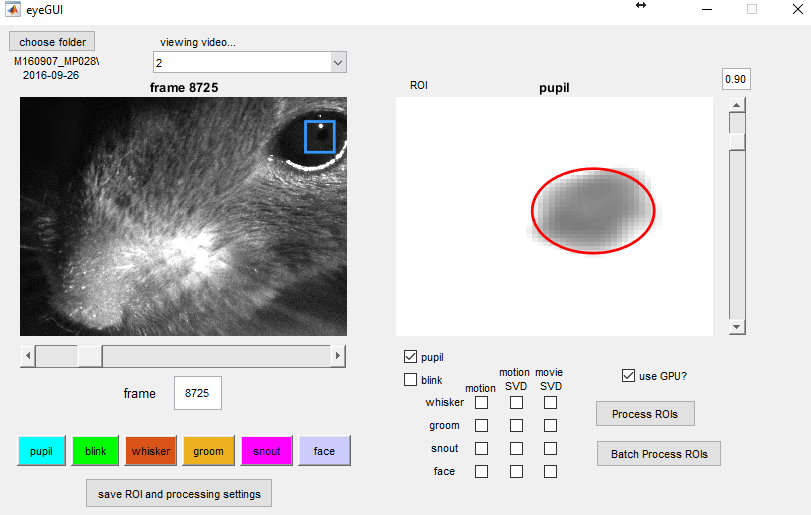
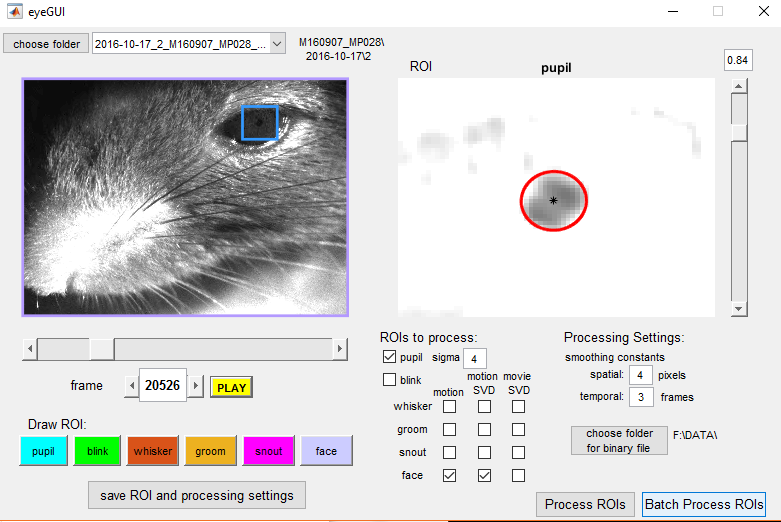
start video at frame 1

diff --git a/eyeGUI.m b/eyeGUI.m
@@ -181,6 +181,8 @@ handles.vr = VideoReader(handles.files{handles.whichfile});
 fprintf('displaying \n%s\n',handles.files{handles.whichfile});
 handles.cframe = 1;
 set(handles.slider1,'Value',0);
+set(handles.slider4,'Value',0);
+set(handles.edit3,'String','1');
 PlotEye(handles);
 handles.nframes = handles.vr.Duration*handles.vr.FrameRate-1;
 guidata(hObject,handles);

diff --git a/PlotEye.m b/PlotEye.m
@@ -14,7 +14,7 @@ cla;
 colormap('gray');
 frame = read(handles.vr,handles.cframe);
 jl = 1;
-frames = zeros(handles.nY, handles.nX, 11, 'uint8');
+frames = zeros(handles.vr.Height, handles.vr.Width, 11, 'uint8');
 for j = 1:11
     if handles.cframe+j-6 > 0 && handles.cframe+j-6<=handles.nframes
         frames(:,:,j) = read(handles.vr,handles.cframe+j-6);
